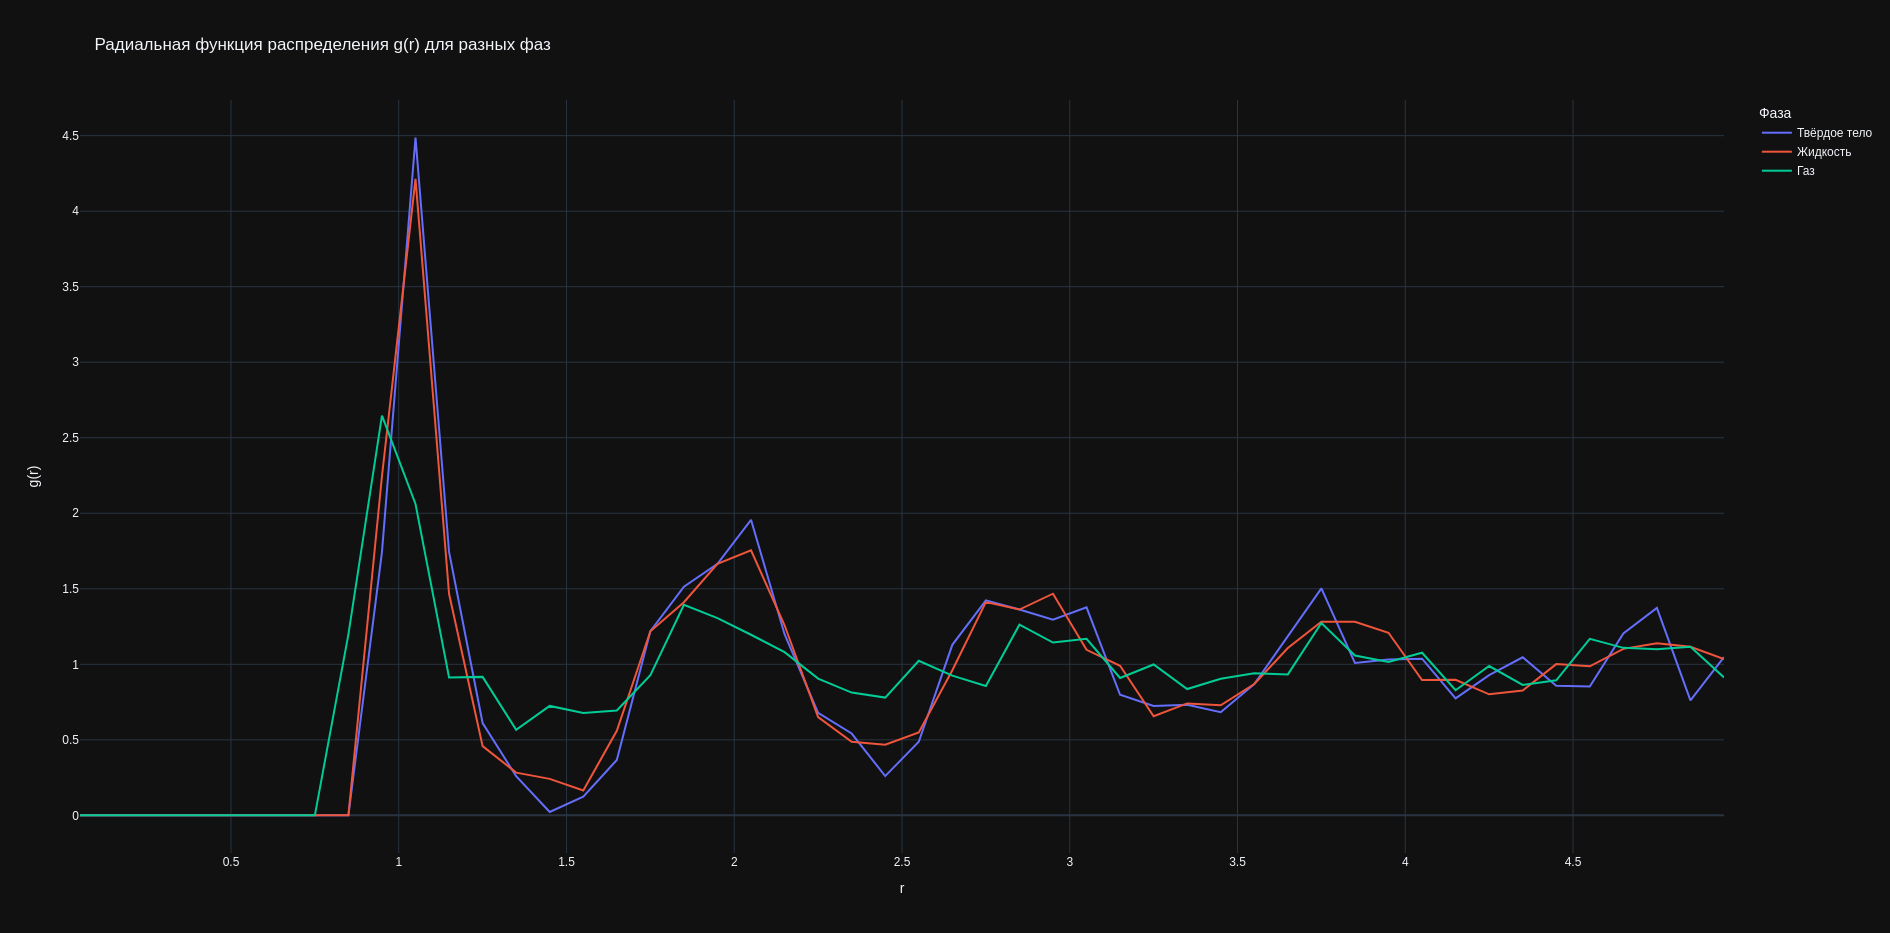
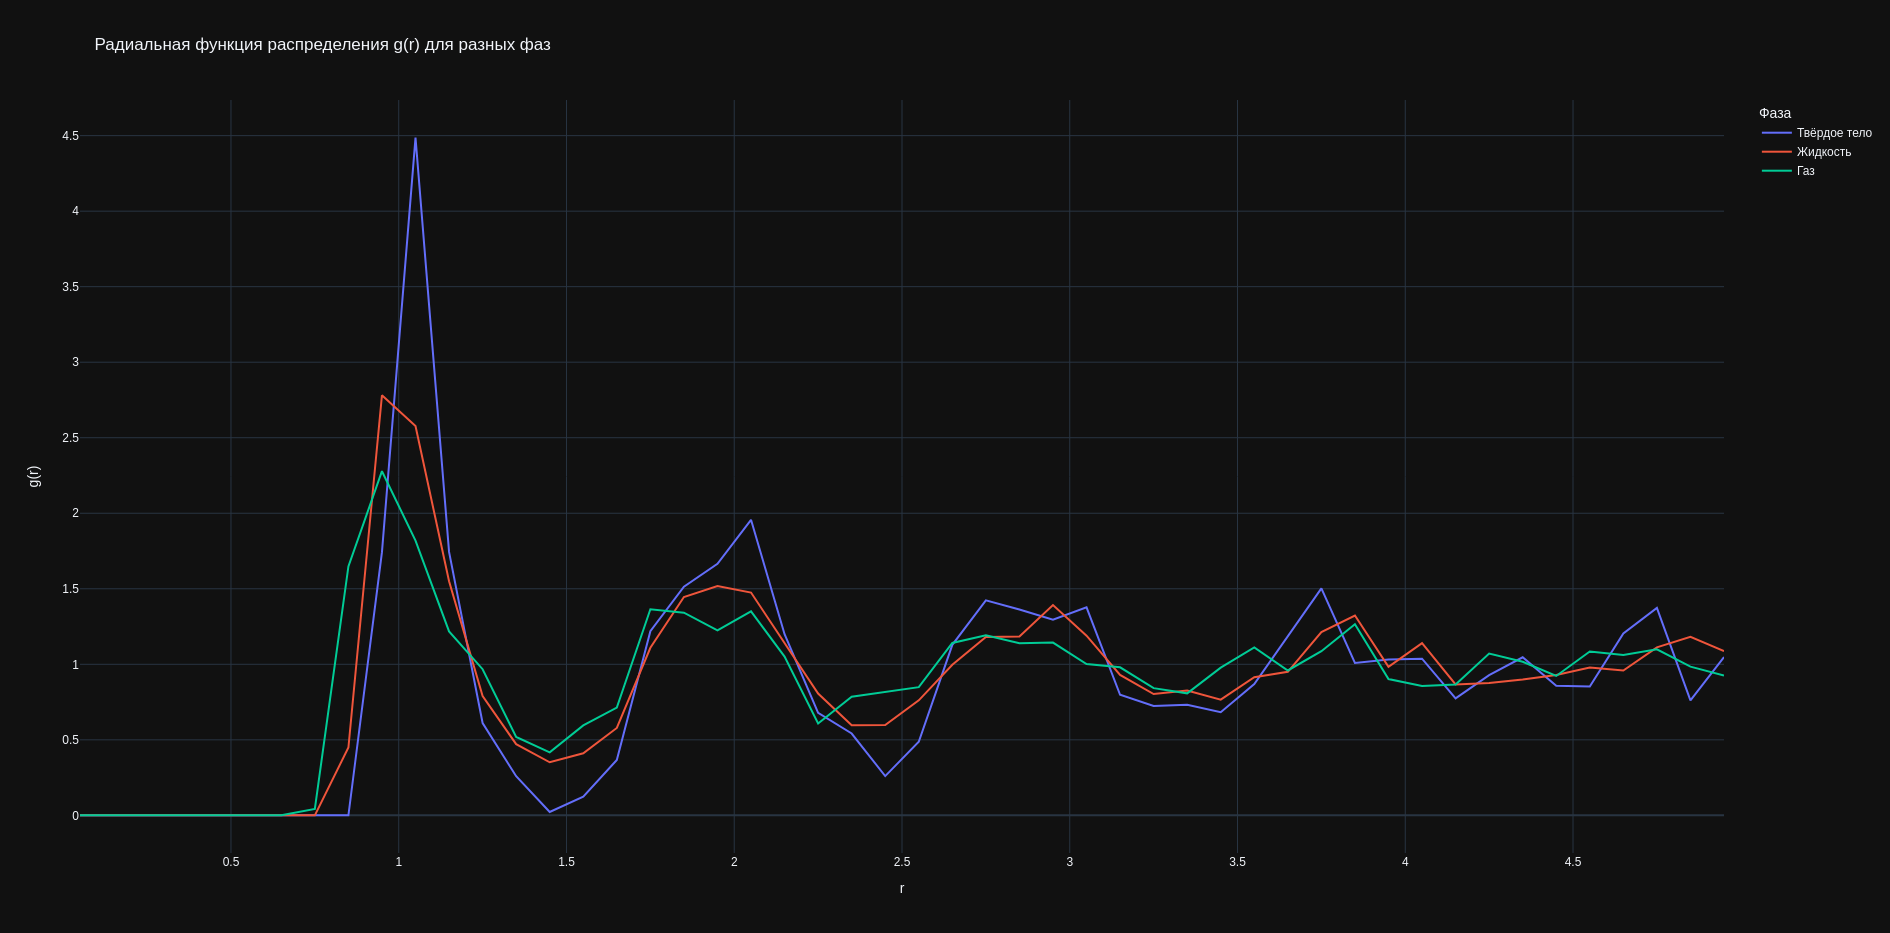
RELEASE: исследование фаз (улучшено)

diff --git a/task_1.py b/task_1.py
@@ -174,8 +174,8 @@ def simulate_with_gr_return_gr(N, L, T0=0.45, dt=0.005, n_therm_steps=50, n_step
 def main():
     cases = [
         ("Твёрдое тело", 0.1),
-        ("Жидкость", 2),
-        ("Газ", 20)
+        ("Жидкость", 8),
+        ("Газ", 25)
     ]
 
     N = 100
